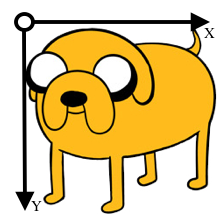
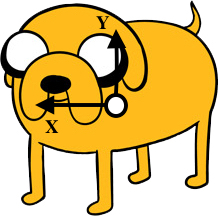
Coordinate frame changing

diff --git a/painting_setup.py b/painting_setup.py
@@ -141,12 +141,18 @@ def exportData(step: int, w: int, h: int, pixels):
     for i in range(len(colors)):
         for x in myRange(0, w - corner, step):
             for y in range(0, h - corner, step):
+                x_raw = x / w * canvas[0] + step/2; # convertation to m
+                y_raw = y / h * canvas[1] + step/2; # convertation to m
+
+                x_new = - (x_raw - canvas[0]/2); # transform coordinates
+                y_new = - (y_raw - canvas[1]/2); # transform coordinates
+
                 dictToParse['paintingPoints'].append({
-                                                            'x': round(x / w * canvas[0] + step/2, 3), # convertation to m
-                                                            'y': round(y / h * canvas[1] + step/2, 3), # convertation to m
-                                                            'R': pixels[x, y][0],
-                                                            'G': pixels[x, y][1],
-                                                            'B': pixels[x, y][2]
+                                                            'x': round(x_new, 3),
+                                                            'y': round(y_new, 3),
+                                                            'R': pixels[x_raw, y_raw][0],
+                                                            'G': pixels[x_raw, y_raw][1],
+                                                            'B': pixels[x_raw, y_raw][2]
                                                      })
 
     if (debugModeOn):
